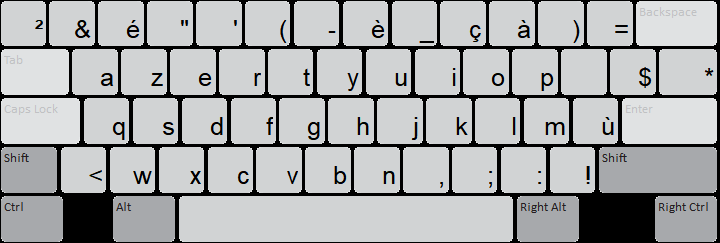
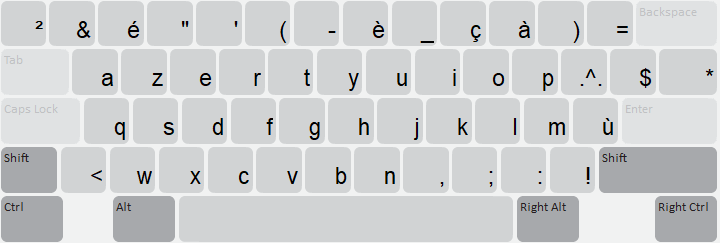
[basic_kbdtzm] Update documentation of deadkeys

Changed region(s): [[0.0, 0.0, 1.0, 1.0]]

diff --git a/release/basic/basic_kbdtzm/source/welcome/welcome.htm b/release/basic/basic_kbdtzm/source/welcome/welcome.htm
@@ -14,8 +14,15 @@
 <h1>Start Using Central Atlas Tamazight Basic</h1>
 
 <p>
-    Central Atlas Tamazight Basic 1.0 generated from template.
+    This keyboard is designed for the Central Atlas Tamazight language (Latin script) of Morocco.
 </p>
+
+<p>This keyboard makes use of deadkeys. Typing the deadkey before the base character will output the combined character. For example:</p>
+<p>¨a will produce ä (available on aAeEiIoOuUy).</p>
+<p>~n will produce ñ (available on aAnNoO).</p>
+<p>`a will produce à (available on aAeEiIoOuU).</p>
+<p>^a will produce ɛ (available on aAcCdDgGhHjJlLrRsStTwzZ to produce ɛƐčČḍḌɣƔḥḤǧǦřŘṛṚṣṢṭṬʷẓẒ).</p>
+
 
   <h2>Keyboard layout</h2>
 	<h3>Default (unshifted)</h3>
@@ -26,7 +33,7 @@
 	<p><a href="LayoutU_RA.png"><img class="keyboard" src="LayoutU_RA.png" alt="Right ALT (unshifted) state" /></a></p>
 
 
-<p>(c) 2018 SIL International</p>
+<p>(c) SIL International</p>
 
 </body>
 </html>

diff --git a/release/basic/basic_kbdtzm/source/readme.htm b/release/basic/basic_kbdtzm/source/readme.htm
@@ -14,10 +14,10 @@
 <h1>Central Atlas Tamazight Basic</h1>
 
 <p>
-    Central Atlas Tamazight Basic 1.0 (Latin script) generated from template.
+    This keyboard is designed for the Central Atlas Tamazight language (Latin script) of Morocco.
 </p>
 
-<p>(c) 2018 SIL International</p>
+<p>(c) SIL International</p>
 
 </body>
 </html>

diff --git a/release/basic/basic_kbdtzm/source/help/basic_kbdtzm.php b/release/basic/basic_kbdtzm/source/help/basic_kbdtzm.php
@@ -8,12 +8,16 @@
 ?>
 
 
-<p style='margin: 16px 0 0 0'>
-This keyboard is designed for the Central Atlas Tamazight language (Latin script) of Morocco.
+<p>
+    This keyboard is designed for the Central Atlas Tamazight language (Latin script) of Morocco.
 </p>
-<p>If square boxes are displayed instead of characters when using this keyboard (and in the keyboard layouts below), please read our <a href="/troubleshooting/#boxes">troubleshooting guide</a>.
-</p>
-<br/>
+
+<p>This keyboard makes use of deadkeys. Typing the deadkey before the base character will output the combined character. For example:</p>
+<p>¨a will produce ä (available on aAeEiIoOuUy).</p>
+<p>~n will produce ñ (available on aAnNoO).</p>
+<p>`a will produce à (available on aAeEiIoOuU).</p>
+<p>^a will produce ɛ (available on aAcCdDgGhHjJlLrRsStTwzZ to produce ɛƐčČḍḌɣƔḥḤǧǦřŘṛṚṣṢṭṬʷẓẒ).</p>
+
 
 <h2>Desktop Keyboard Layout</h2>
 <div id='osk' data-states='default shift rightalt'>

diff --git a/release/basic/basic_kbdtzm/README.md b/release/basic/basic_kbdtzm/README.md
@@ -1,17 +1,16 @@
 Central Atlas Tamazight Basic keyboard
 ==============
 
-(c) 2018 SIL International
-
-Version 1.0
+(c) SIL International
 
 Description
 -----------
 
-Central Atlas Tamazight Basic (Latin script) generated from template
+This keyboard is designed for the Central Atlas Tamazight language (Latin script) of Morocco.
 
 Links
 -----
+https://keyman.com/keyboards/basic_kbdtzm
 
 Supported Platforms
 -------------------

diff --git a/release/basic/basic_kbdtzm/HISTORY.md b/release/basic/basic_kbdtzm/HISTORY.md
@@ -1,6 +1,10 @@
 Central Atlas Tamazight Basic Change History
 ====================
 
+1.0.1 (2022-12-05)
+----------------
+* Update dk behavior and documentation
+
 1.0 (2018-11-06)
 ----------------
 * Keyman keyboard generated by ImportKeyboard from Windows 10 

diff --git a/release/basic/basic_kbdtzm/LICENSE.md b/release/basic/basic_kbdtzm/LICENSE.md
@@ -1,6 +1,6 @@
 The MIT License (MIT)
 
-(c) 2018 SIL International
+(c) 2018-2022 SIL International
 
 Permission is hereby granted, free of charge, to any person obtaining a copy
 of this software and associated documentation files (the "Software"), to deal
